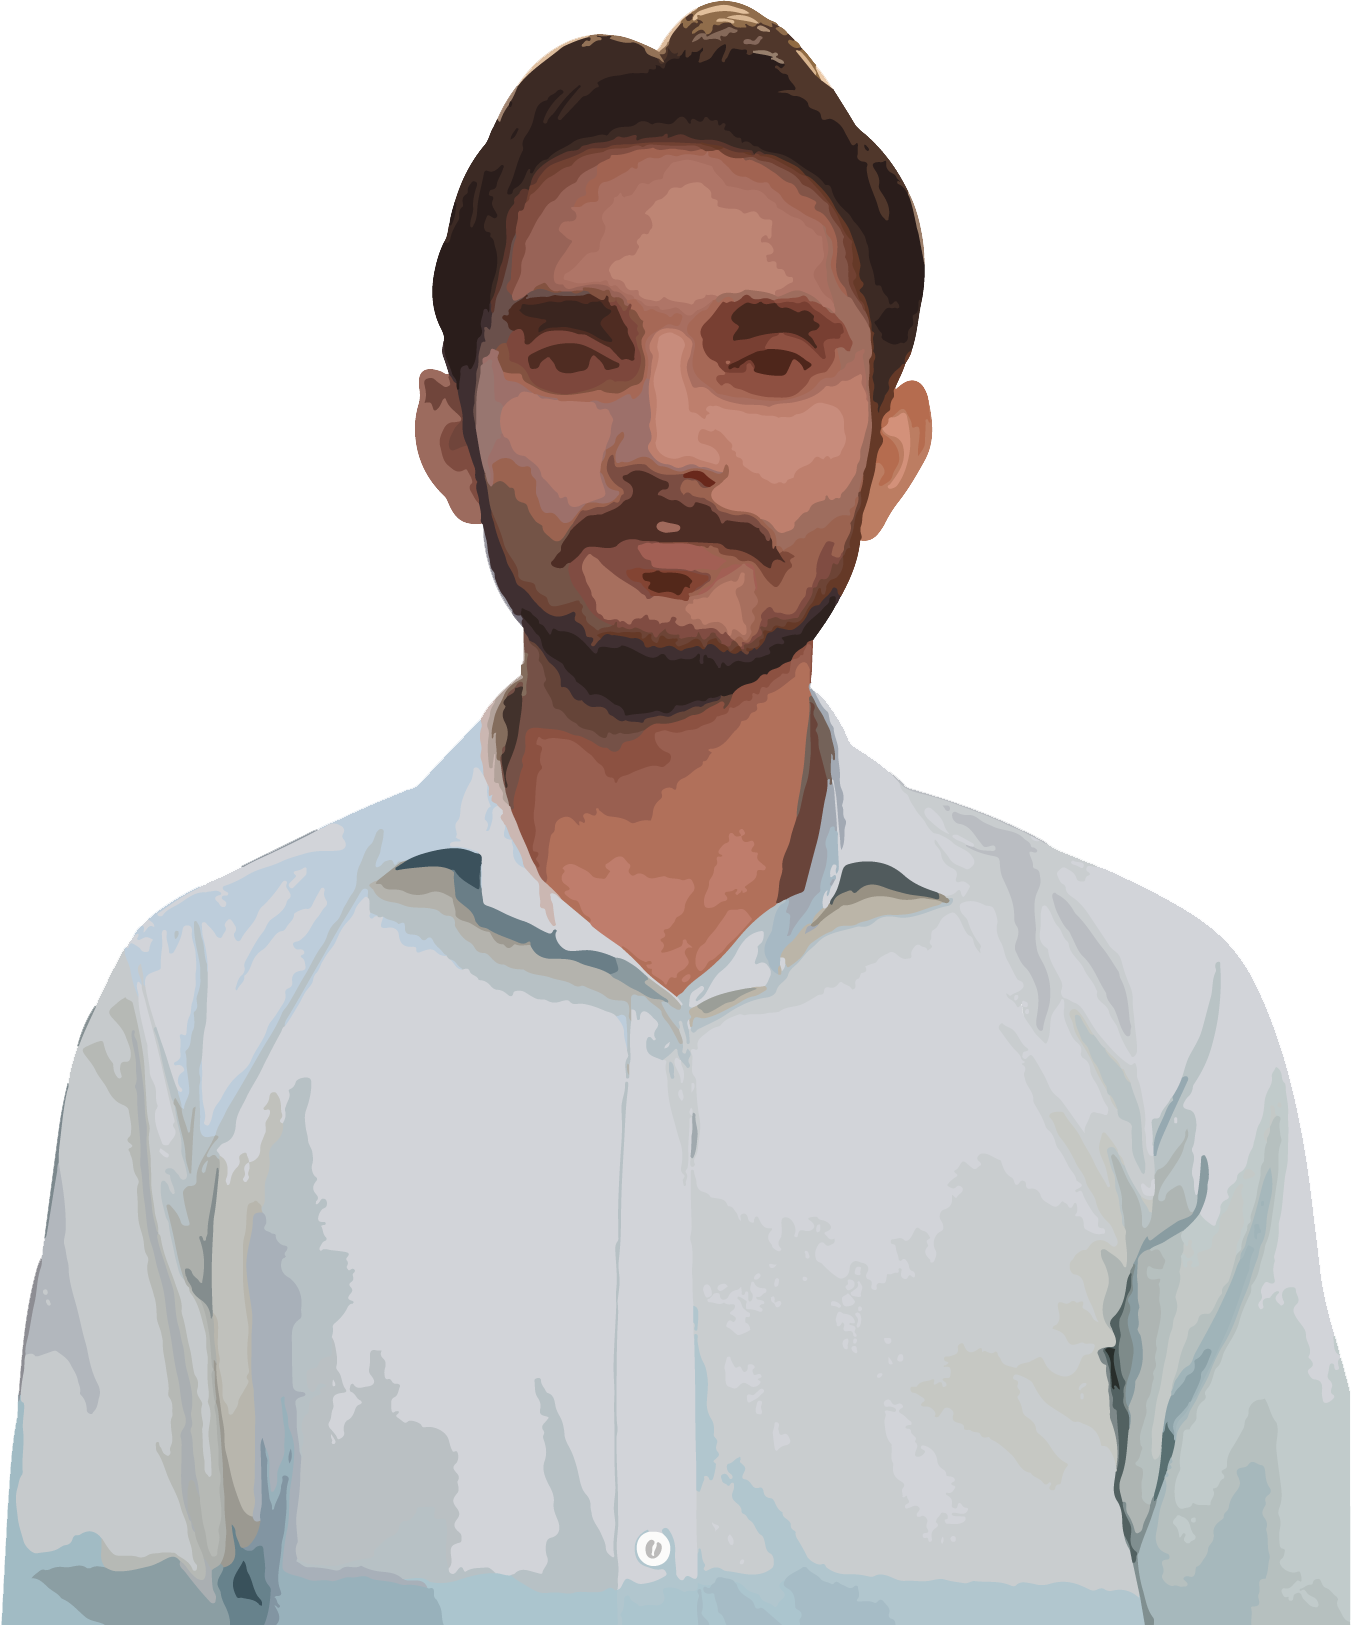
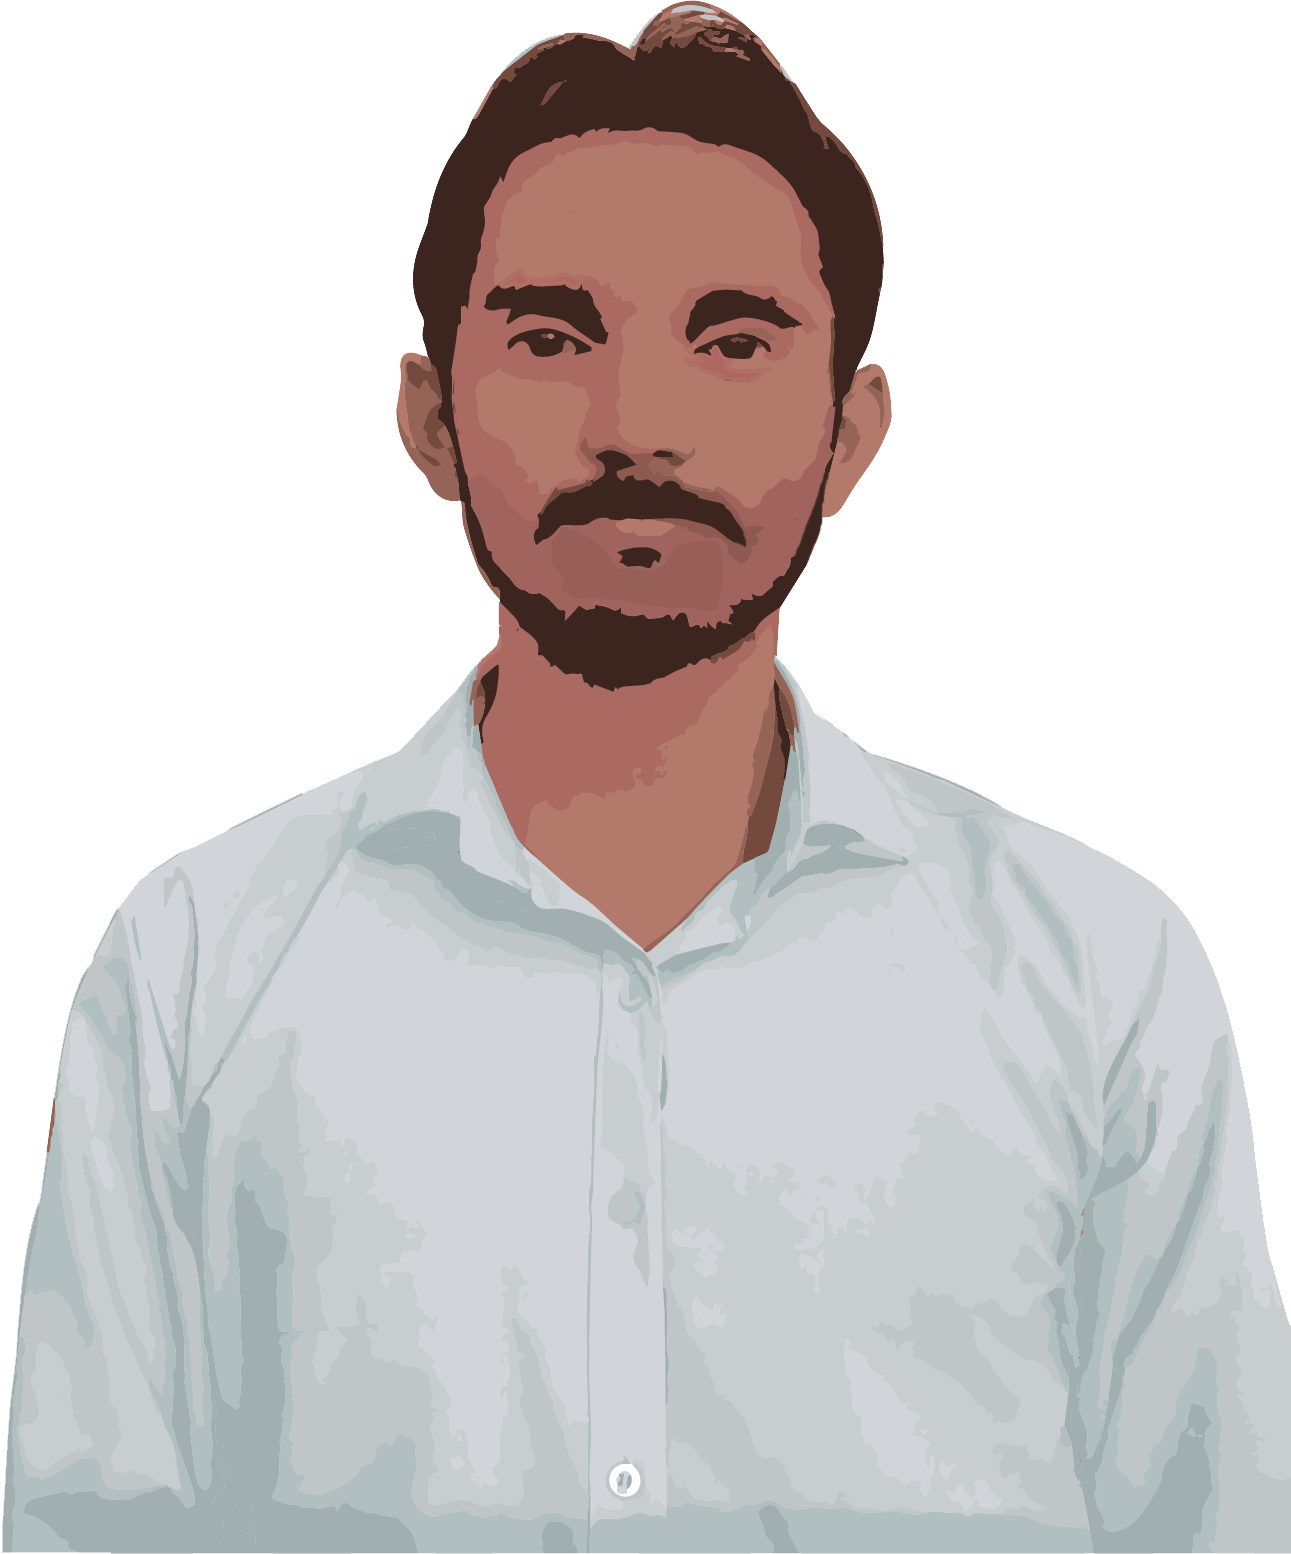
first commit

diff --git a/index.html b/index.html
@@ -17,7 +17,7 @@
                 <div class="profile">
                     <div class="image">
                         <figure>
-                            <img class="img" src="Images/new1.png" alt="">
+                            <img class="img" src="Images/profile.png" alt="">
                             <div class="overlay">
                                 <img class="w-100" src="Images/g2.png" alt="">
                             </div>
